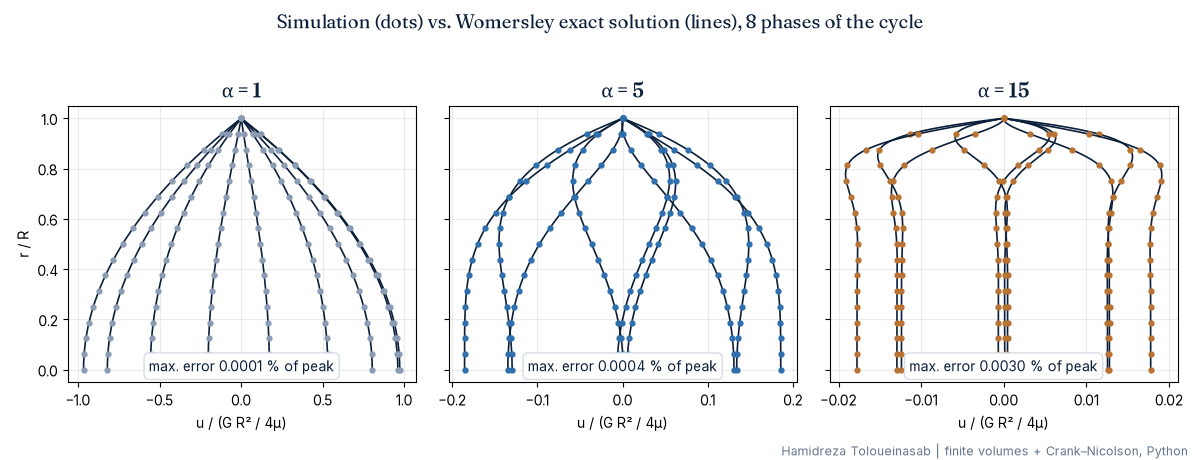
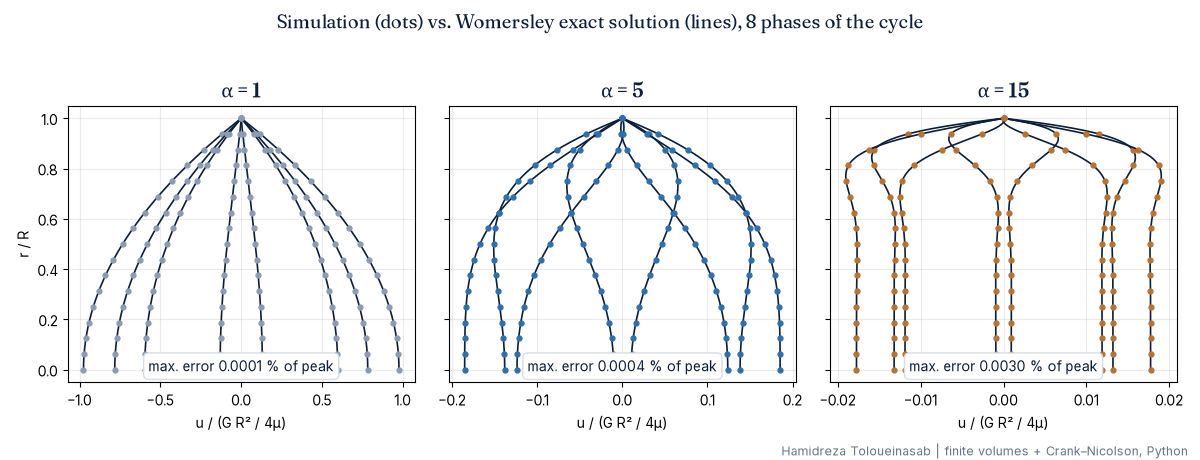
Episodes 01 and 02: corrections; fix sampling in womersley.py
Episode 02: samples now cover exactly one cycle (4800 steps, 120 samples); lags and validation figure regenerated; viscous-layer wording corrected. Episode 01: recirculation length compared with the 2.24 reference solution, inlet and grid effects restated, pin-fin statement replaced.

diff --git a/episodes/02-womersley/womersley.py b/episodes/02-womersley/womersley.py
@@ -75,7 +75,9 @@ def apply(lo, di, up, u):
     return out
 
 
-def solve(alpha, n=400, steps_per_cycle=4000, cycles=60, samples=120):
+def solve(alpha, n=400, steps_per_cycle=4800, cycles=60, samples=120):
+    if steps_per_cycle % samples:                      # samples must cover exactly one cycle
+        raise ValueError('steps_per_cycle must be a multiple of samples')
     r, lo, di, up = operator_bands(n)
     dt = 2 * np.pi / steps_per_cycle
     a2 = alpha ** 2
@@ -127,7 +129,7 @@ def main():
     ap.add_argument('--out', required=True)
     ap.add_argument('--alphas', type=float, nargs='+', default=[1.0, 5.0, 15.0])
     ap.add_argument('--n', type=int, default=400, help='radial cells')
-    ap.add_argument('--steps', type=int, default=4000, help='time steps per cycle')
+    ap.add_argument('--steps', type=int, default=4800, help='time steps per cycle')
     ap.add_argument('--cycles', type=int, default=60, help='cycles simulated from rest')
     a = ap.parse_args()
     out = Path(a.out); out.mkdir(parents=True, exist_ok=True)

diff --git a/episodes/01-vortex-street/README.md b/episodes/01-vortex-street/README.md
@@ -6,14 +6,14 @@
 
 <p align="center"><a href="media/vortex_street.mp4"><b>▶ Watch the video (MP4, 13 s)</b></a></p>
 
-Same cylinder, same fluid. Change one number, the Reynolds number Re = UD/ν, and the wake goes from perfectly
-still to rhythmically alive.
+Same cylinder. Change one number, the Reynolds number Re = UD/ν, and the wake goes from perfectly
+steady to rhythmically alive.
 
 | | Re = 40 | Re = 100 |
 |---|---|---|
 | Wake | Two steady, mirror-image vortices stay attached behind the cylinder | Vortices peel off alternately from the top and bottom: the **von Kármán vortex street** |
 | Measured quantity | Recirculation length **L/D = 2.31** | Strouhal number **St = fD/U = 0.166** |
-| Literature | 2.13 (experiment) to 2.35 (numerical) | 0.164 (experiment) |
+| Literature | reference solution 2.24; published values 2.13 to 2.35 (Gautier et al., 2013) | 0.164 (experiment) |
 
 The symmetric wake loses stability at a critical Reynolds number of about **Re ≈ 47** (Provansal et al., 1987) through a
 Hopf bifurcation. Above it, the wake oscillates at a well-defined frequency. Flow remains essentially two-dimensional
@@ -22,8 +22,9 @@ up to Re ≈ 190 (Williamson, 1996), so a 2D model is appropriate for both cases
 ## Why it matters
 
 - **Vortex flowmeters** infer the flow rate from the shedding frequency through the Strouhal number.
-- **Vortex-induced vibration** of chimneys, cables, risers and heat-exchanger tubes is driven by periodic shedding.
-- **Electronics cooling:** the unsteady wake behind pin fins increases mixing and convective heat transfer.
+- **Vortex-induced vibration** of tall structures such as chimneys can be driven by periodic shedding.
+- **Pin-fin cooling:** in arrays for turbine blades, shedding can help heat transfer on the pins themselves, while rows
+  further downstream can lose some (Ostanek & Thole, 2012).
 
 ## Method
 
@@ -51,9 +52,10 @@ Both Reynolds numbers run side by side on identical grids; only the viscosity (r
 | 20 | 20D | 15D | 0.1647 | 2.39 |
 | **30** | **20D** | **15D** | **0.1665** | **2.31** |
 
-**Lesson:** the distance from the inlet to the cylinder mattered far more than grid resolution. With the inlet only 5D
-upstream, the fixed-velocity inlet constrains the flow too close to the body and the Strouhal number is about 5 % high.
-Moving the inlet to 15D brings St within 1.5 % of experiment and places L/D inside the published range.
+**Lesson:** for the Strouhal number, the distance from the inlet to the cylinder mattered more than grid resolution: moving
+the inlet from 5D to 15D lowered St by 4 %, while refining from D = 20 to 30 changed it by 1 %. For L/D the two effects are
+similar (4 % and 3 %). The final St is 1.5 % above experiment and L/D is 3 % above the reference solution of 2.24. The grid
+changes show that the results are not fully grid-independent. Result files are stored for two of the four preliminary rows.
 
 Results of the final run are in [`results/results.json`](results/results.json), and two of the convergence runs are in
 [`results/convergence`](results/convergence).
@@ -95,7 +97,9 @@ Run `python cylinder_lbm.py --help` to list all options (grid size, domain exten
 4. B. Fornberg, *A numerical study of steady viscous flow past a circular cylinder*, J. Fluid Mech. **98** (1980) 819–855.
 5. S. C. R. Dennis, G.-Z. Chang, *Numerical solutions for steady flow past a circular cylinder at Reynolds numbers up to 100*, J. Fluid Mech. **42** (1970) 471–489.
 6. C. H. K. Williamson, *Vortex dynamics in the cylinder wake*, Annu. Rev. Fluid Mech. **28** (1996) 477–539.
-7. NASA Earth Observatory, *Swirly clouds in the Canaries*: [vortex streets in nature](https://earthobservatory.nasa.gov/images/151216/swirly-clouds-in-the-canaries).
+7. R. Gautier, D. Biau, E. Lamballais, *A reference solution of the flow over a circular cylinder at Re = 40*, Comput. Fluids **75** (2013) 103–111. [arXiv:1310.6641](https://arxiv.org/abs/1310.6641)
+8. J. K. Ostanek, K. A. Thole, *Effects of varying streamwise and spanwise spacing in pin-fin arrays*, ASME Turbo Expo 2012, GT2012-68127. [doi:10.1115/GT2012-68127](https://doi.org/10.1115/GT2012-68127)
+9. NASA Earth Observatory, *Swirly clouds in the Canaries*: [vortex streets in nature](https://earthobservatory.nasa.gov/images/151216/swirly-clouds-in-the-canaries).
 
 ---
 

diff --git a/README.md b/README.md
@@ -26,7 +26,7 @@ and a write-up that compares the numbers with published experiments and benchmar
 
 | Nº | Topic | Method | Key result | Folder |
 |:--:|---|---|---|---|
-| 01 | **When does a wake start to oscillate?** Flow past a circular cylinder at Re = 40 and Re = 100 | Lattice Boltzmann (D2Q9, BGK), Python + Numba | St = 0.166 (exp. 0.164); L/D = 2.31 (lit. 2.13–2.35) | [`episodes/01-vortex-street`](episodes/01-vortex-street) |
+| 01 | **When does a wake start to oscillate?** Flow past a circular cylinder at Re = 40 and Re = 100 | Lattice Boltzmann (D2Q9, BGK), Python + Numba | St = 0.166 (exp. 0.164); L/D = 2.31 (reference 2.24) | [`episodes/01-vortex-street`](episodes/01-vortex-street) |
 | 02 | **Why isn't blood flow parabolic?** Pulsatile (Womersley) flow in a tube at α = 1, 5 and 15 | Unsteady Navier–Stokes, finite volumes + Crank–Nicolson, Python | Max. error vs exact solution 0.003 %; flow lags pressure by 84° at α = 15 | [`episodes/02-womersley`](episodes/02-womersley) |
 | 03 | **When does heated air start to move?** Rayleigh–Bénard convection at Ra = 1,500, 10⁴ and 10⁶ | Thermal lattice Boltzmann (D2Q9 + D2Q5, TRT), Python + Numba | Ra_c = 1707.7 (theory 1707.76); Nu within 0.3 % of Clever & Busse | [`episodes/03-rayleigh-benard`](episodes/03-rayleigh-benard) |
 | 04 | **Heated from the side, air never rests.** Natural convection in a square cavity at Ra = 10³–10⁶ | Thermal lattice Boltzmann (D2Q9 + D2Q5, TRT), Python + Numba | Mean Nu and peak velocities within 0.6 % of de Vahl Davis, and within 0.06 % of Le Quéré at Ra = 10⁶ | [`episodes/04-cavity`](episodes/04-cavity) |
